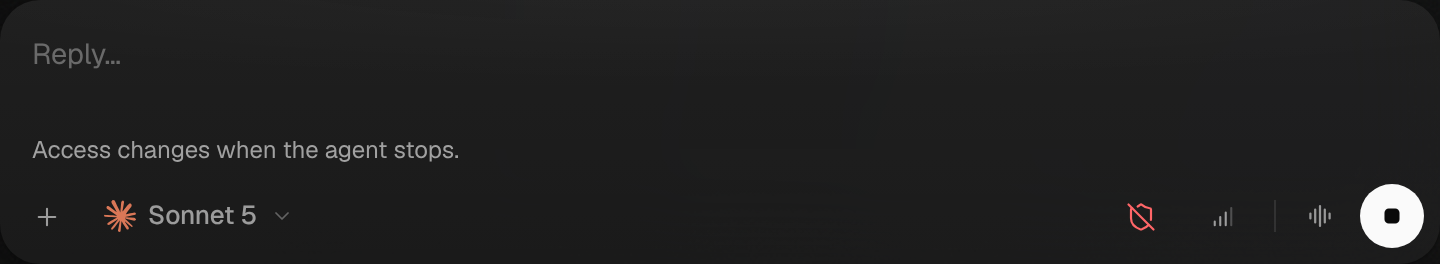
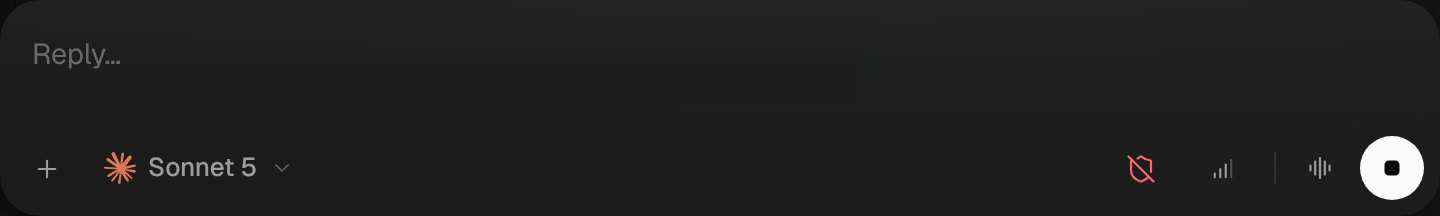
Say nothing of an access change the running turn holds back
Saurav asked for the 'Access changes when the agent stops.' line to go: the
shield already shows the choice and it takes effect when the agent stops.
Only a refused change is still said. Stress `switch` now checks the shield
shows the choice mid-turn and the composer adds no notice.

Claude-Session: https://claude.ai/code/session_01JcBpmTk6onY5gvhwYqJAR1

diff --git a/src/desktop/workspace/ui/panes/composer-access.ts b/src/desktop/workspace/ui/panes/composer-access.ts
@@ -52,9 +52,6 @@ export function accessRefusalCopy(refusal: {
   return `Access didn’t change. ${failureCopy(refusal.reason)}`
 }
 
-/** What the composer says of a choice the agent's turn holds back. */
-export const pendingAccessCopy = "Access changes when the agent stops."
-
 /** The shield's value, its change handler, and what to say of its last choice, for a session's composer. */
 export function useComposerAccess(sessionId: string): ComposerAccess {
   const dispatch = useWorkspaceDispatch()
@@ -70,12 +67,13 @@ export function useComposerAccess(sessionId: string): ComposerAccess {
     [dispatch, sessionId],
   )
   return useMemo(() => {
+    // A choice the running turn holds back says nothing: the shield already
+    // shows it, and it takes effect when the agent stops. Only a refusal is
+    // said, because then the shield's choice did not happen.
     const notice: ComposerAccess["notice"] =
-      said?.state === "pending"
-        ? { tone: "neutral", text: pendingAccessCopy }
-        : said?.state === "refused"
-          ? { tone: "warning", text: accessRefusalCopy(said) }
-          : undefined
+      said?.state === "refused"
+        ? { tone: "warning", text: accessRefusalCopy(said) }
+        : undefined
     return { value: shieldFor(mode), onChange, ...(notice ? { notice } : {}) }
   }, [mode, onChange, said])
 }

diff --git a/src/desktop/ui/composer-access.test.tsx b/src/desktop/ui/composer-access.test.tsx
@@ -53,16 +53,7 @@ it("shows the owner's access and the sentence for a refused change", async () =>
   await act(async () => root.unmount())
 })
 
-it("says a held change as a quiet hint with no mark, and marks only a refusal", async () => {
-  const held = await shown({
-    value: "auto-approval",
-    onChange: () => {},
-    notice: { tone: "neutral", text: "Access changes when the agent stops." },
-  })
-  const hint = host.querySelector('[role="status"]')
-  expect(hint?.textContent).toBe("Access changes when the agent stops.")
-  expect(hint?.querySelector('[data-slot="status-label-mark"]')).toBeNull()
-  await act(async () => held.root.unmount())
+it("hangs a refusal's mark before its words", async () => {
   const refused = await shown({
     value: "ask-approval",
     onChange: () => {},
